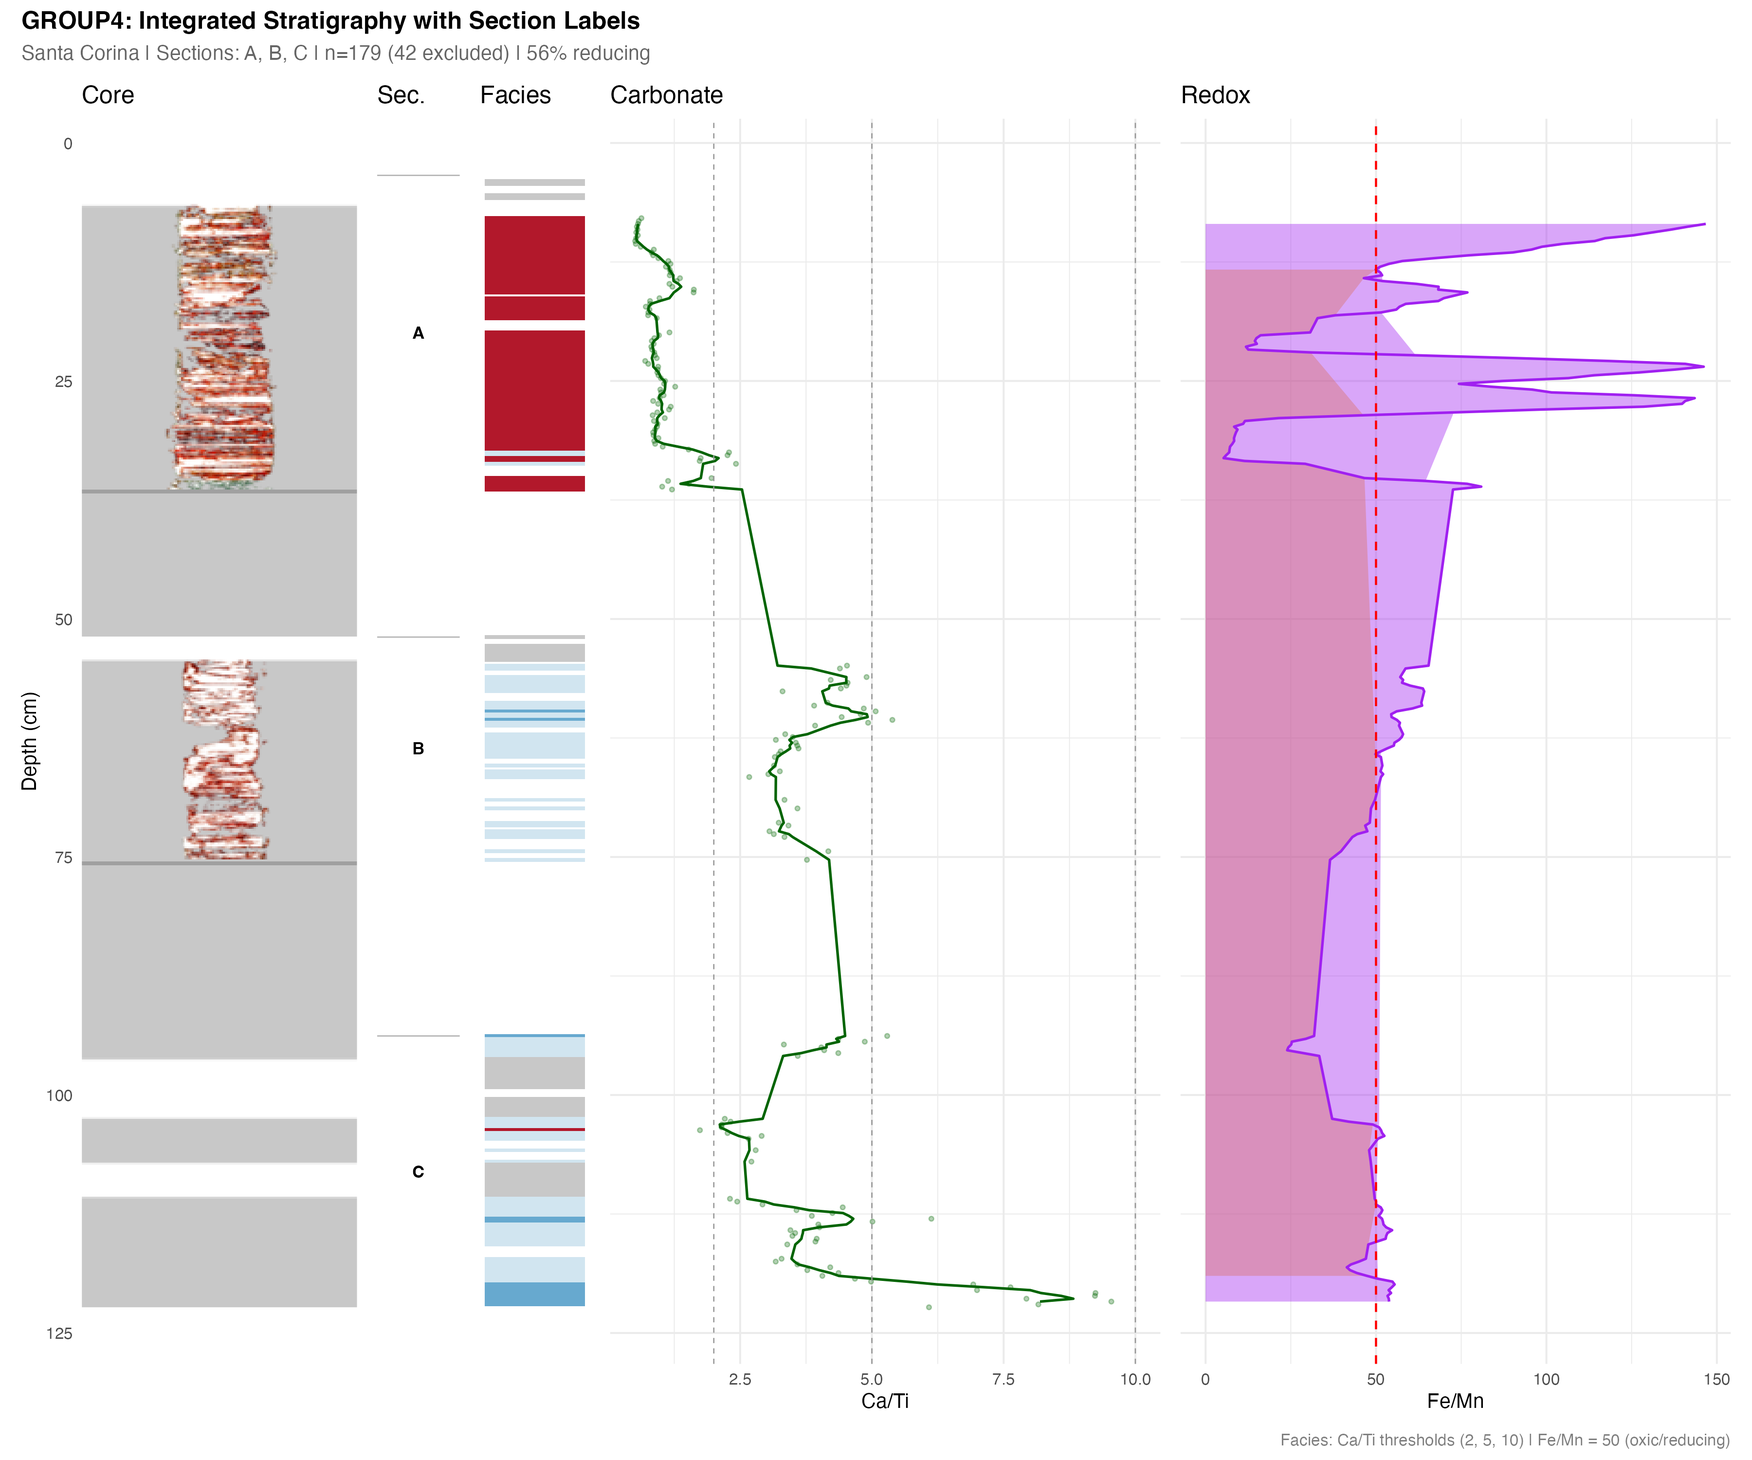
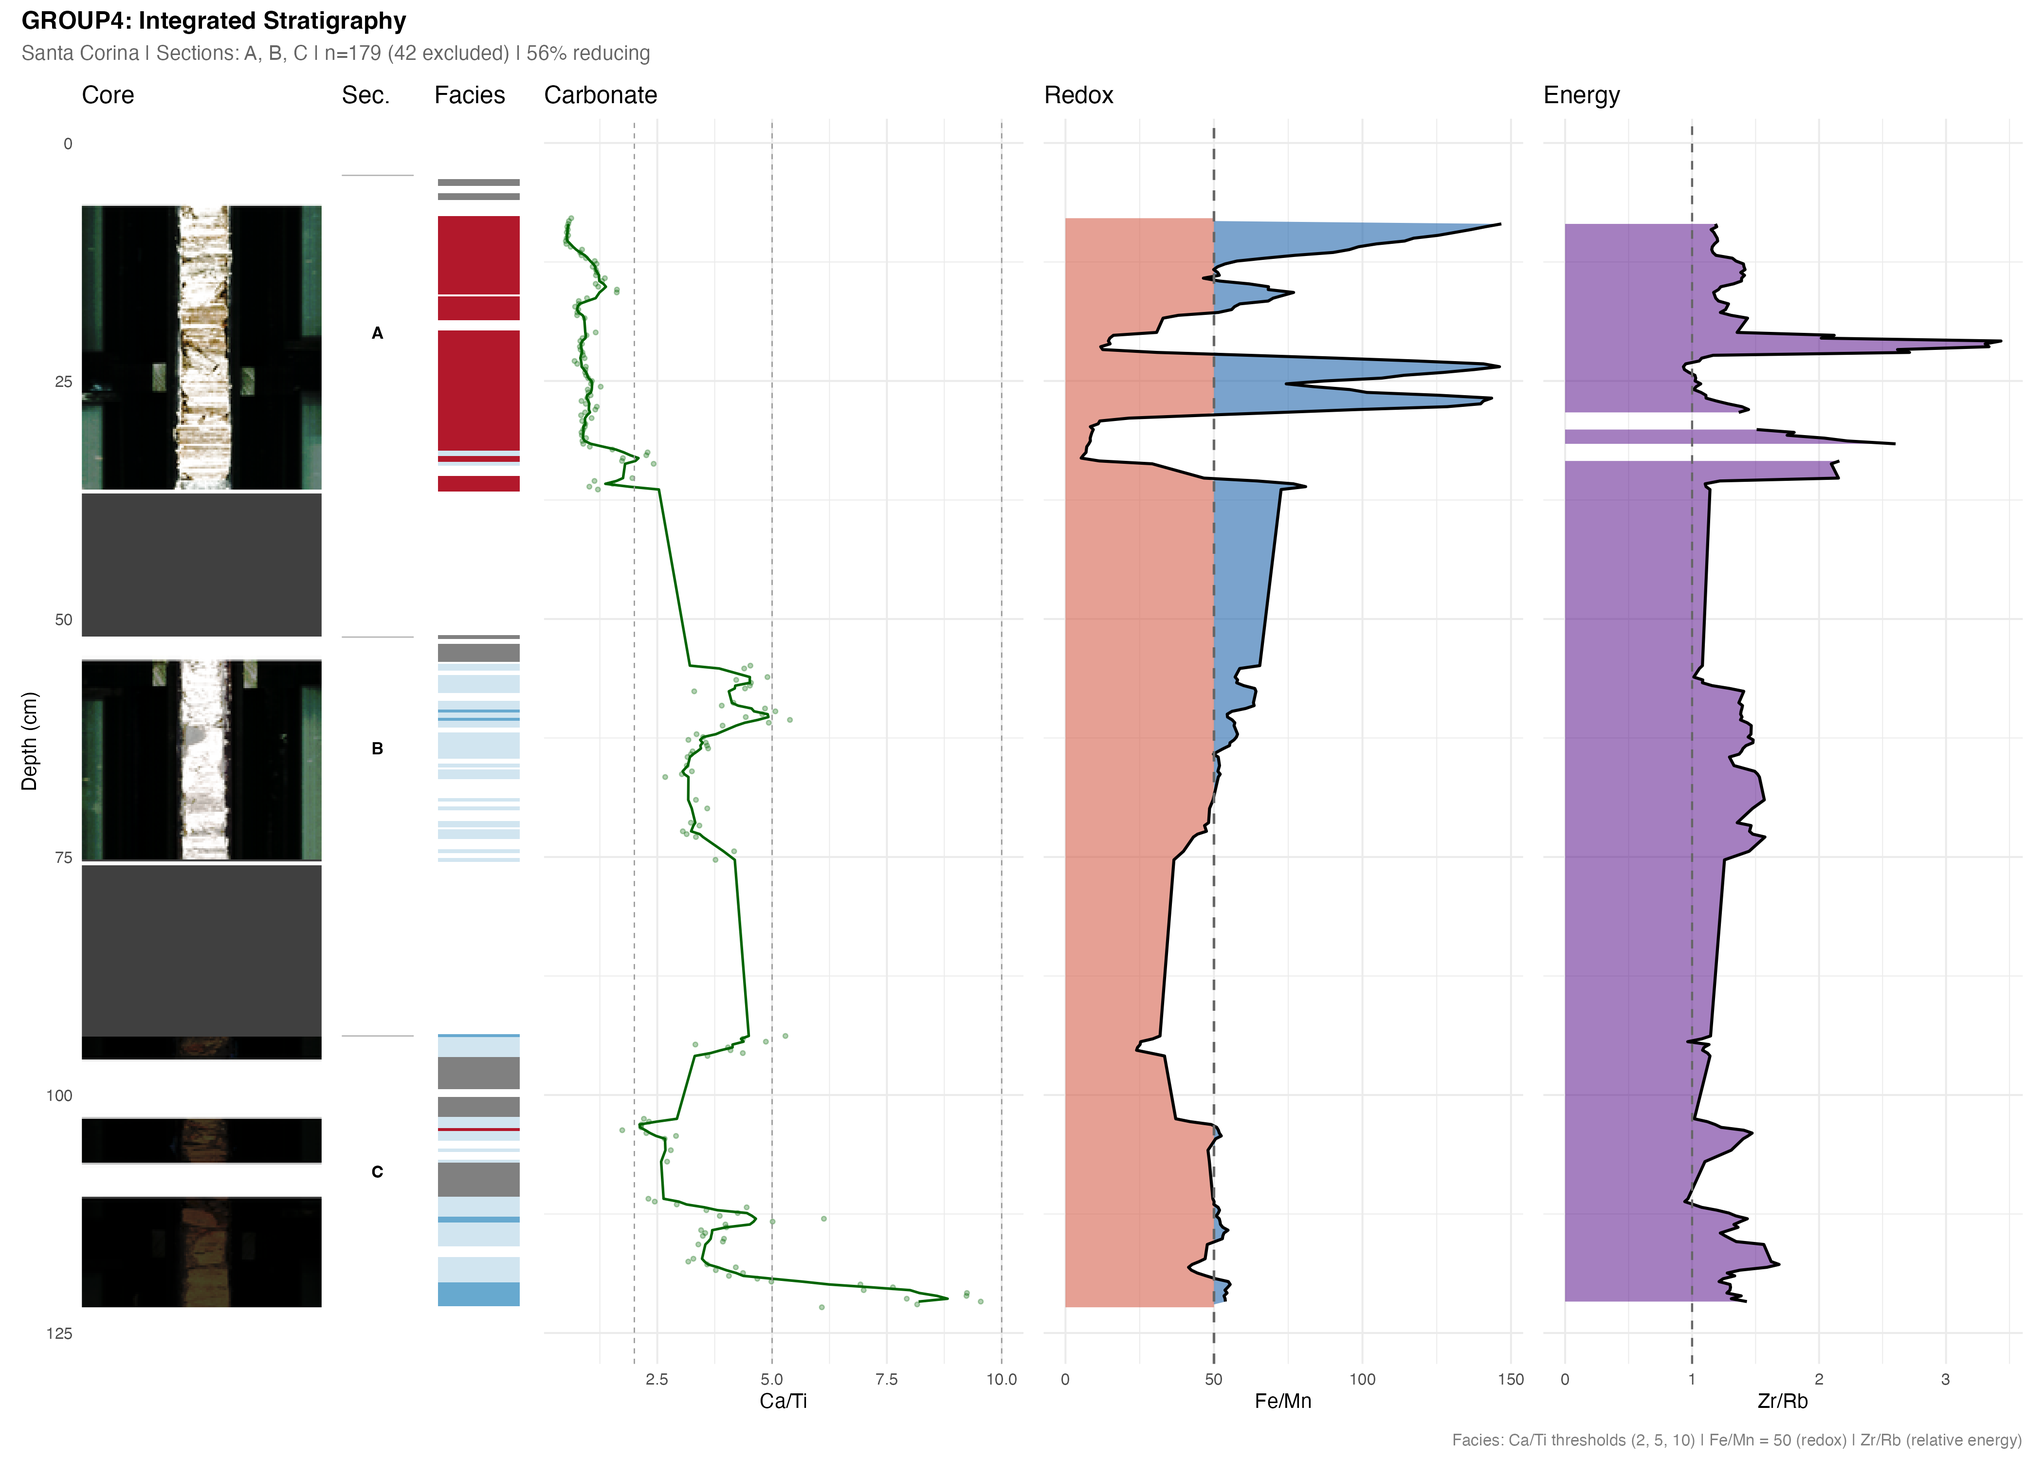
Add Zr/Rb hydrodynamic proxy and enhance multi-proxy framework
- Add Zr/Rb grain-size proxy panel to integrated stratigraphic figures
- Fix Fe/Mn color symbology (blue=reducing, red-orange=oxic) with non-overlapping ribbons
- Document Sr/Ba paleosalinity proxy limitations in carbonate-bearing sediments
- Add hydrodynamic event detection (34 events: 20 TAM, 14 SC) using z-score > 2
- Integrate Pebas mega-wetland literature context (Wesselingh2006, Boonstra2021)
- Add filter validation figures for QC documentation
- Update references with Wei2020, Tribovillard2006, Boonstra2021, Wesselingh2006

🤖 Generated with [Claude Code](https://claude.com/claude-code)

diff --git a/manuscript/main.tex b/manuscript/main.tex
@@ -57,7 +57,7 @@ Detailed Geochemical Documentation of Tamshiyacu and Santa Corina Sediment Cores
 \maketitle
 
 \begin{abstract}
-We present a comprehensive multi-proxy paleoenvironmental analysis of sediment cores from the Miocene Pebas Formation at two localities in the Peruvian Amazon: Tamshiyacu (TAM) and Santa Corina (SC). Integrating Itrax XRF core scanning with optical core documentation, we develop a robust geochemical framework validated through optical-lithological correspondence across all analyzed sections. Seven core groups comprising 27 sections yield 1,979 calibrated XRF measurements at 3~mm resolution. We employ a statistically-validated four-proxy suite: Ca for authigenic/biogenic carbonate, Ti for terrigenous flux, \FeMn{} for redox conditions, and \ZrRb{} for grain size. Empirical redundancy analysis demonstrates that Ca/Ti is statistically redundant with raw Ca ($r$ = 0.89), while \FeMn{} ($r$ = 0.27) and \ZrRb{} ($r$ = 0.60) provide genuinely independent information. Visual correspondence between XRF geochemical signals and lithological features in optical core images confirms that surface geochemistry faithfully tracks sedimentological variations. Systematic site differences---TAM records more reducing conditions (median \FeMn{} = 93.4 vs.\ 50.7) and higher carbonate content than SC---indicate spatial heterogeneity within the Pebas mega-wetland, with TAM representing a more distal or restricted depositional setting. This integrated multi-proxy documentation provides a reference framework for ongoing paleontological and sedimentological studies, with shell-rich intervals identified as priority targets for fossil sampling and isotopic analysis.
+We present a comprehensive multi-proxy paleoenvironmental analysis of sediment cores from the Miocene Pebas Formation at two localities in the Peruvian Amazon: Tamshiyacu (TAM) and Santa Corina (SC). Integrating Itrax XRF core scanning with optical core documentation, we develop a robust geochemical framework validated through optical-lithological correspondence across all analyzed sections. Seven core groups comprising 27 sections yield 1,979 calibrated XRF measurements at 3~mm resolution. We employ a statistically-validated four-proxy suite: Ca for authigenic/biogenic carbonate, Ti for terrigenous flux, \FeMn{} for redox conditions, and \ZrRb{} for hydrodynamic energy. Redundancy analysis demonstrates that Ca/Ti is statistically redundant with raw Ca ($r$ = 0.89), while \FeMn{} ($r$ = 0.27) and \ZrRb{} ($r$ = 0.60) provide genuinely independent information; notably, the Sr/Ba paleosalinity proxy is inapplicable in this carbonate-bearing setting. Low baseline \ZrRb{} values (median $<$ 1.0) confirm fine-grained, low-energy lacustrine deposition consistent with the Pebas mega-wetland model, while discrete \ZrRb{} anomalies identify 34 high-energy events (floods/storms) concentrated in specific stratigraphic intervals. Systematic site differences---TAM records more reducing conditions (median \FeMn{} = 92.5 vs.\ 50.7) and higher carbonate content (15\% vs.\ 4\% shell-rich)---indicate spatial heterogeneity within the mega-wetland, with TAM representing a more distal or restricted depositional setting. This integrated multi-proxy framework provides a reference for ongoing paleontological studies, with shell-rich intervals and redox transitions identified as priority targets for fossil sampling and isotopic analysis.
 \end{abstract}
 
 \tableofcontents
@@ -653,14 +653,16 @@ Synthesizing all lines of evidence---XRF geochemistry, optical imaging, and stat
 
 \subsubsection{Depositional Setting: The Pebas Mega-Wetland}
 
-Both Tamshiyacu and Santa Corina record deposition within the Miocene Pebas mega-wetland system. Multiple independent lines of evidence characterize this setting:
+Both Tamshiyacu and Santa Corina record deposition within the Miocene Pebas mega-wetland system, a long-lived freshwater to marginally brackish lake-wetland complex that covered $>$1 million km$^2$ of western Amazonia during the middle to late Miocene \citep{Wesselingh2006, Hoorn2010}. Strontium isotope studies on well-preserved Pebas molluscs indicate predominantly freshwater conditions ($^{87}$Sr/$^{86}$Sr = 0.7081--0.7085), with Andean-sourced drainage and only rare marine incursions reaching maximum $\sim$5 psu \citep{Vonhof2003, Boonstra2021}. Multiple independent lines of evidence from our XRF analysis characterize this setting:
 
 \begin{enumerate}
-    \item \textbf{Fine-grained sedimentation:} Low Zr/Rb values (median $<$ 1.0 at both sites) indicate clay-dominated deposition consistent with low-energy lacustrine conditions.
+    \item \textbf{Low-energy lacustrine deposition:} Consistently low Zr/Rb values (median = 1.0 at TAM, 0.9 at SC) indicate fine-grained, clay-dominated sedimentation characteristic of quiet, distal lacustrine environments. The absence of sustained high-energy signatures supports the mega-wetland model of shallow lakes and embayments rather than fluvial channel deposition.
+
+    \item \textbf{Episodic hydrodynamic events:} Despite the low-energy baseline, discrete Zr/Rb spikes ($z$-score $>$ 2) identify 20 high-energy events at TAM and 14 at SC, concentrated in specific stratigraphic intervals (TAM GROUP2--3; SC GROUP4). These events may represent floods, storm layers, or deltaic pulses that temporarily delivered coarser sediment to the otherwise quiescent depositional environment.
 
     \item \textbf{Carbonate-rich intervals:} XRF Ca profiles document variable authigenic and biogenic carbonate accumulation. The strong Ca--Sr correlation ($r$ = 0.62) confirms aragonite-rich shell material, consistent with documented mollusc and ostracod assemblages \citep{Vonhof2003, Kaandorp2005}.
 
-    \item \textbf{Reducing bottom waters:} Elevated Fe/Mn ratios (TAM median = 92.5; SC median = 50.7) indicate predominantly anoxic bottom-water conditions, supporting the interpretation of a stratified, restricted water body with limited circulation.
+    \item \textbf{Reducing bottom waters:} Elevated Fe/Mn ratios (TAM median = 92.5; SC median = 50.7) indicate predominantly anoxic bottom-water conditions, supporting the interpretation of a stratified, restricted water body with limited circulation. The systematic site difference suggests TAM occupied a more distal or restricted position within the mega-wetland.
 
     \item \textbf{Independent carbonate and siliciclastic systems:} The near-zero correlation between Ca and Ti ($r$ = 0.06) demonstrates that carbonate and terrigenous sediment sources operated independently, enabling use of these proxies to track distinct environmental signals.
 \end{enumerate}
@@ -699,6 +701,26 @@ Pronounced vertical variations in all proxies document fluctuating environmental
 
 The statistical independence of proxies (confirmed by redundancy analysis, Section~\ref{subsec:redundancy}) ensures these stratigraphic signals represent genuinely distinct environmental parameters rather than redundant information.
 
+\subsubsection{Hydrodynamic Events and Redox Cycling}
+
+The Zr/Rb grain-size proxy reveals episodic high-energy events superimposed on the low-energy lacustrine baseline. Event detection using a $z$-score threshold of 2 identifies:
+
+\begin{itemize}
+    \item \textbf{TAM:} 20 events, concentrated in GROUP2 (TAM-3A-4-5CDE-B: 7 events) and GROUP3 (TAM-5AB-6-7-C: 9 events)
+    \item \textbf{SC:} 14 events, concentrated in GROUP4 (SC-1ABC-2-3C-A-RUN1: 8 events)
+\end{itemize}
+
+These events may represent flood pulses delivering coarser sediment from the catchment, storm-induced resuspension, or deltaic progradation episodes. The clustering of events in specific stratigraphic intervals suggests periods of enhanced hydrological variability within the otherwise stable mega-wetland system.
+
+Fe/Mn redox transitions provide complementary evidence for environmental dynamics. Sharp Fe/Mn changes (top 5\% of gradient magnitudes) indicate rapid shifts in bottom-water oxygenation, potentially recording:
+\begin{itemize}
+    \item Water column mixing events (breakdown of stratification)
+    \item Seasonal ventilation pulses
+    \item Storm-induced circulation changes
+\end{itemize}
+
+TAM shows larger-magnitude redox transitions (threshold = 76.3 Fe/Mn units) than SC (threshold = 28.3), consistent with stronger stratification at TAM that, when disrupted, produced more dramatic geochemical shifts.
+
 \subsubsection{Shell-Rich Intervals: Biological Signal}
 
 Discrete shell-rich horizons (Ca $>$ 100~kcps; Ca/Ti $>$ 10) are unevenly distributed, with TAM recording substantially more shell-rich facies than SC:
@@ -725,17 +747,19 @@ This study establishes a comprehensive, multi-proxy paleoenvironmental framework
 \begin{enumerate}
     \item \textbf{Optical-geochemical validation:} Visual correspondence between XRF geochemical signals and lithological features in optical core images across all 27 sections confirms that surface geochemistry faithfully tracks sedimentological variations throughout the 7.97~m composite stratigraphy. Shell-rich intervals identified by elevated Ca correspond to visible shell concentrations, and facies transitions align with observable lithological boundaries.
 
-    \item \textbf{Optimized proxy methodology:} Redundancy analysis demonstrates that Ca/Ti is statistically redundant with raw Ca ($r$ = 0.89), while \FeMn{} ($r$ = 0.27) and \ZrRb{} ($r$ = 0.60) provide genuinely independent information. We recommend a streamlined four-proxy suite (Ca, Ti, \FeMn{}, \ZrRb{}) that maximizes information content while avoiding redundancy.
+    \item \textbf{Optimized proxy methodology:} Redundancy analysis demonstrates that Ca/Ti is statistically redundant with raw Ca ($r$ = 0.89), while \FeMn{} ($r$ = 0.27) and \ZrRb{} ($r$ = 0.60) provide genuinely independent information. We recommend a streamlined four-proxy suite (Ca, Ti, \FeMn{}, \ZrRb{}) that maximizes information content while avoiding redundancy. Notably, the Sr/Ba paleosalinity proxy is not applicable in this carbonate-bearing setting due to Sr incorporation into aragonite phases.
 
     \item \textbf{Comprehensive inventory:} 27 core sections from 7 groups yield 1,979 calibrated XRF measurements across 7.97~m of composite stratigraphy, with 81.5\% data retention after quality control filtering validated by spectral evidence.
 
+    \item \textbf{Pebas mega-wetland signature:} Low Zr/Rb values (median $<$ 1.0) at both sites indicate fine-grained, low-energy lacustrine deposition consistent with the Pebas mega-wetland model. Elevated Fe/Mn ratios confirm predominantly reducing bottom-water conditions, supporting the interpretation of a stratified, restricted water body---consistent with published Sr isotope evidence for predominantly freshwater conditions.
+
     \item \textbf{Spatial heterogeneity:} Systematic geochemical differences between TAM (median \FeMn{} = 92.5; 15\% shell-rich facies) and SC (median \FeMn{} = 50.7; 4\% shell-rich) indicate TAM represents a more distal or restricted depositional setting with stronger bottom-water anoxia and enhanced carbonate accumulation.
+
+    \item \textbf{Hydrodynamic events:} Zr/Rb anomalies identify 34 discrete high-energy events (20 at TAM, 14 at SC) representing floods, storms, or deltaic pulses that episodically delivered coarser sediment to the low-energy lacustrine environment. Events cluster in specific stratigraphic intervals, suggesting periods of enhanced hydrological variability.
 
     \item \textbf{Temporal variability:} Pronounced stratigraphic variations in all proxies document fluctuating environmental conditions, with TAM GROUP2 representing a carbonate-production maximum and TAM GROUP3 recording a dramatic shell-rich to clastic transition.
 
-    \item \textbf{Integrated visualization:} Optical core images aligned with geochemical profiles for each core group enable direct correspondence between visual lithology and quantitative geochemistry, with shell-rich intervals identified as priority targets for paleontological sampling.
-
-    \item \textbf{Reference framework:} This multi-proxy documentation provides a robust foundation for ongoing paleontological, sedimentological, and isotopic studies, with the convergence of XRF and optical evidence streams establishing confidence in paleoenvironmental interpretations.
+    \item \textbf{Reference framework:} This multi-proxy documentation provides a robust foundation for ongoing paleontological, sedimentological, and isotopic studies, with the convergence of XRF and optical evidence streams establishing confidence in paleoenvironmental interpretations. Shell-rich intervals and redox transitions are identified as priority targets for fossil sampling and isotopic analysis.
 \end{enumerate}
 
 The methodological framework established here---combining XRF elemental analysis, optical documentation, and rigorous statistical validation---represents a template for future multi-proxy core-scanning studies of Neogene tropical lacustrine sequences.

diff --git a/manuscript/sections/proxy_evaluation.tex b/manuscript/sections/proxy_evaluation.tex
@@ -170,6 +170,8 @@ While Si/Al ratios also correlate with grain size, interpretations can be compli
 \paragraph{Application to Pebas Formation.}
 Higher Zr/Rb values indicate coarser sediment and higher depositional energy, potentially tracking fluvial channel proximity, flood events, or lake level changes affecting shoreline position. The ratio adds substantial information beyond raw Zr counts ($r$ = 0.60), and both elements show excellent detection with the Mo tube (Rb: Z = 37; Zr: Z = 40).
 
+In the Pebas context, baseline Zr/Rb values are consistently low (median $<$ 1.3 at both sites), indicating predominantly fine-grained, low-energy lacustrine deposition. This is consistent with the Pebas mega-wetland model of shallow lakes and embayments \citep{Wesselingh2006}. Discrete Zr/Rb spikes ($z$-score $>$ 2 relative to site mean) identify high-energy events---potentially floods, storm layers, or deltaic progradation pulses. Our analysis detected 20 such events at TAM (concentrated in GROUP2--3) and 14 at SC (concentrated in GROUP4), suggesting episodic hydrodynamic disturbance of the otherwise quiescent depositional environment.
+
 \paragraph{Limitations.}
 Provenance effects may influence Zr/Rb if sediment sources (Andean vs.\ cratonic) differ in Zr/Rb signatures. Additionally, heavy mineral concentration (placer effects) can elevate Zr independently of bulk grain size. Log transformation [ln(Zr/Rb)] improves linearity with measured grain size \citep{Wu2020}.
 
@@ -292,6 +294,21 @@ SC & 875 & 43,168 & 14,329 & 50.7 & 0.92 \\
 \item Values are medians. n = number of QC-passing, non-excluded measurements.
 \end{tablenotes}
 \end{table}
+
+\subsection{Proxy Limitations: Sr/Ba Paleosalinity}
+\label{subsec:srba_limitations}
+
+Several commonly-used XRF proxies were evaluated but not adopted for this study due to calibration limitations in the Pebas Formation context.
+
+\paragraph{Sr/Ba Paleosalinity Proxy.}
+The Sr/Ba ratio has been proposed as a paleosalinity indicator, with published thresholds of $<$0.2 (freshwater), 0.2--0.5 (brackish), and $>$0.5 (marine) based on calibration with modern sediments \citep{Wei2020}. However, these thresholds were developed for fine-grained siliciclastic sediments \emph{without significant carbonate content}, where elements are acquired through adsorption of dissolved species.
+
+In the Pebas Formation, carbonate-bearing sediments show dramatically elevated Sr/Ba values (median = 18--19 at both sites), exceeding the ``marine'' threshold by a factor of 35--40$\times$. This reflects Sr incorporation into carbonate phases (especially aragonite shells) rather than salinity. The strong Ca--Sr correlation ($r$ = 0.62) confirms that carbonate mineralogy, not watermass salinity, controls Sr distribution in this setting.
+
+Independent Sr isotope studies on Pebas molluscs indicate predominantly freshwater conditions ($^{87}$Sr/$^{86}$Sr = 0.7081--0.7085), with rare marine incursions reaching maximum $\sim$5 psu \citep{Vonhof2003, Boonstra2021}. The XRF Sr/Ba proxy is therefore \emph{not recommended} for paleosalinity reconstruction in carbonate-bearing Pebas sediments.
+
+\paragraph{Cu/Zn Alternative Redox Proxy.}
+The Cu/Zn ratio has been proposed as an alternative redox proxy, with lower values indicating more reducing conditions \citep{Tribovillard2006}. However, in the Pebas dataset, Cu/Zn shows a positive correlation with Fe/Mn ($r$ = 0.24) when a negative correlation would be expected if both tracked the same redox signal. This inconsistency suggests that Cu/Zn behavior in the Pebas setting is influenced by factors beyond simple redox chemistry, possibly including organic matter complexation or sulfide precipitation dynamics. We retain Fe/Mn as the primary redox indicator given its established mechanistic basis and literature support in lacustrine settings.
 
 \subsection{Stratigraphic Application}
 \label{subsec:stratigraphic}
